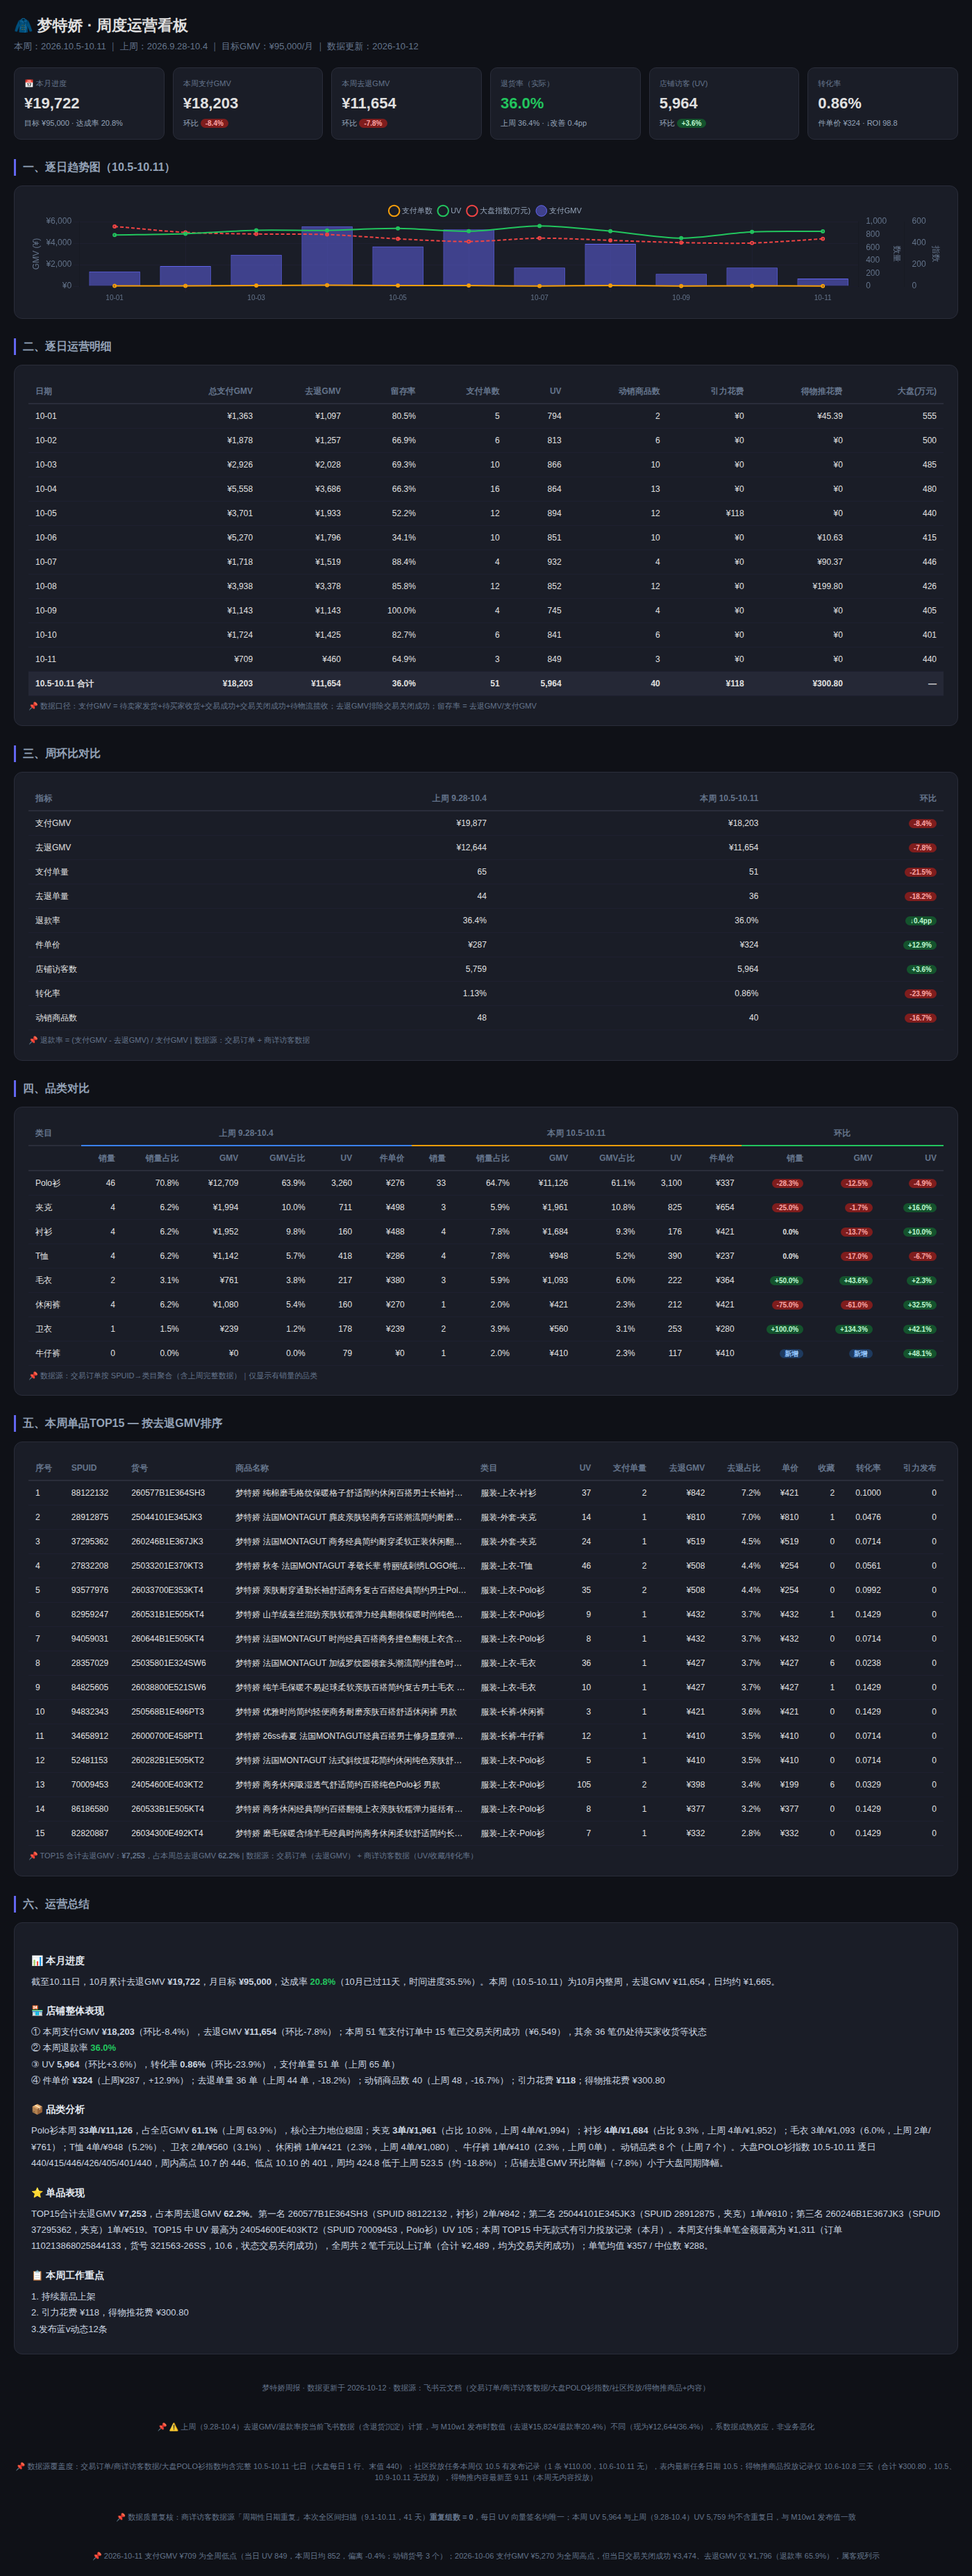
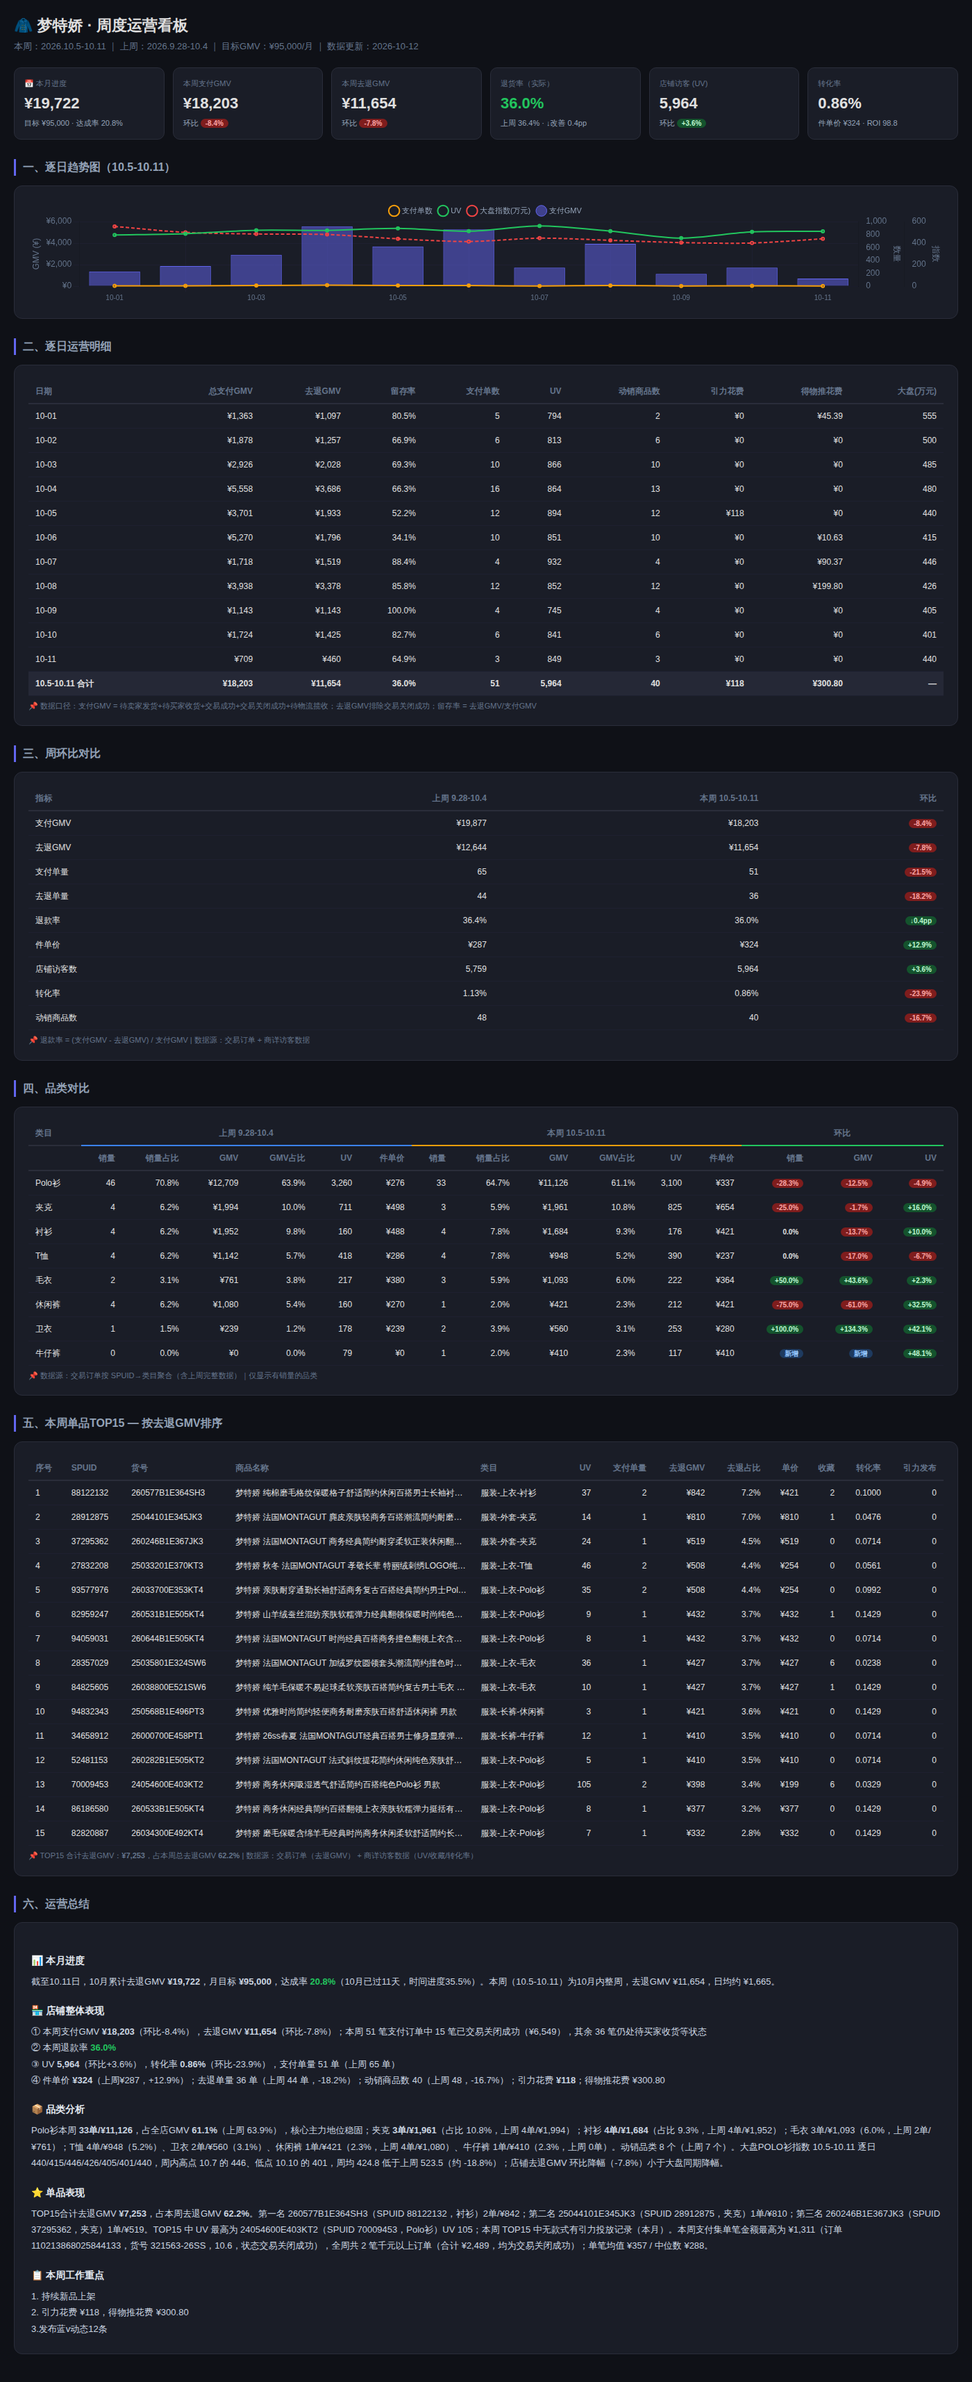
data: MONTAGUT M10w2 看板删除页脚「数据来源」元信息块5段 + 重导 PNG/Excel
- 删除正文页脚「数据更新于…数据源：飞书云文档（…）」及4条 📌 注记
  （成熟效应/数据源覆盖度/数据质量复核/低点高点客观列示）
- 断言 <p class="upd"> = 0，</body></html> 各1处，文件末尾为 </html>
- PNG 1400×3708 → 1400×3429 已重导；Excel 逐单元格内容不变
- 表格脚注(.fn 4处：模块二数据口径/模块三退款率公式/模块四数据源/模块五TOP15合计)按范围界定保留未删

diff --git a/MONTAGUT/M10w2/index.html b/MONTAGUT/M10w2/index.html
@@ -178,8 +178,6 @@ tr:hover td{background:#1e2030}
 3.发布蓝v动态12条</p>
 </div>
 
-<p class="upd">梦特娇周报 · 数据更新于 2026-10-12 · 数据源：飞书云文档（交易订单/商详访客数据/大盘POLO衫指数/社区投放/得物推商品+内容）</p>
-
 <script>
 window.addEventListener('load',function(){
 setTimeout(function(){
@@ -213,7 +211,3 @@ y2:{type:'linear',position:'right',title:{display:true,text:'指数',color:'#647
 </script>
 </body>
 </html>
-<p class="upd">📌 ⚠ 上周（9.28-10.4）去退GMV/退款率按当前飞书数据（含退货沉淀）计算，与 M10w1 发布时数值（去退¥15,824/退款率20.4%）不同（现为¥12,644/36.4%），系数据成熟效应，非业务恶化</p>
-<p class="upd">📌 数据源覆盖度：交易订单/商详访客数据/大盘POLO衫指数均含完整 10.5-10.11 七日（大盘每日 1 行、末值 440）；社区投放任务本周仅 10.5 有发布记录（1 条 ¥110.00，10.6-10.11 无），表内最新任务日期 10.5；得物推商品投放记录仅 10.6-10.8 三天（合计 ¥300.80，10.5、10.9-10.11 无投放），得物推内容最新至 9.11（本周无内容投放）</p>
-<p class="upd">📌 数据质量复核：商详访客数据源「周期性日期重复」本次全区间扫描（9.1-10.11，41 天）<b>重复组数 = 0</b>，每日 UV 向量签名均唯一；本周 UV 5,964 与上周（9.28-10.4）UV 5,759 均不含重复日，与 M10w1 发布值一致</p>
-<p class="upd">📌 2026-10-11 支付GMV ¥709 为全周低点（当日 UV 849，本周日均 852，偏离 -0.4%；动销货号 3 个）；2026-10-06 支付GMV ¥5,270 为全周高点，但当日交易关闭成功 ¥3,474、去退GMV 仅 ¥1,796（退款率 65.9%），属客观列示</p>
